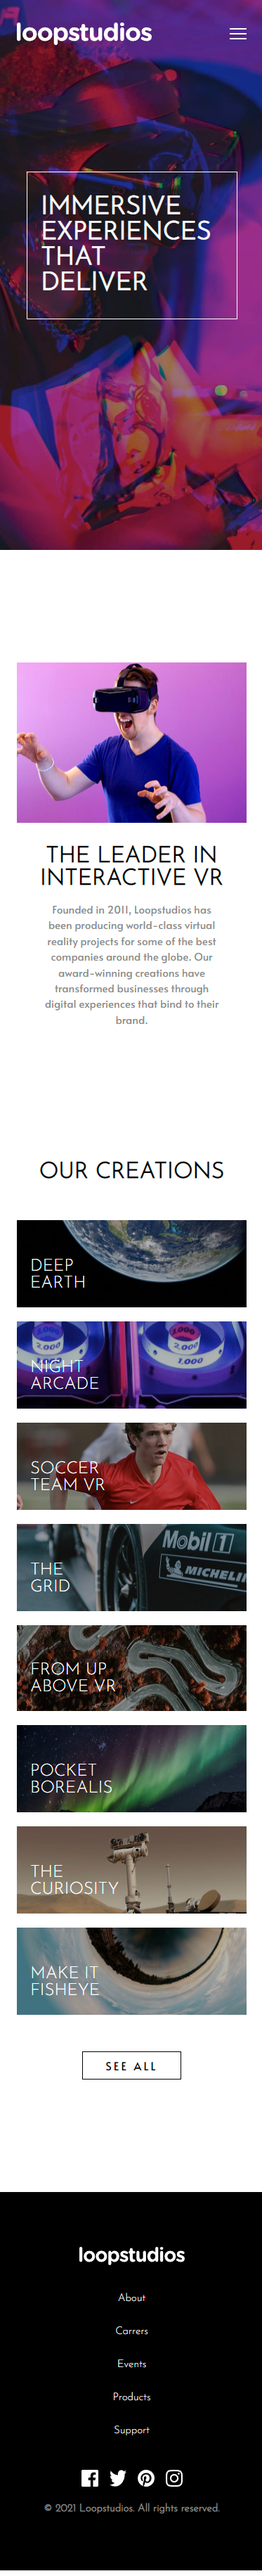
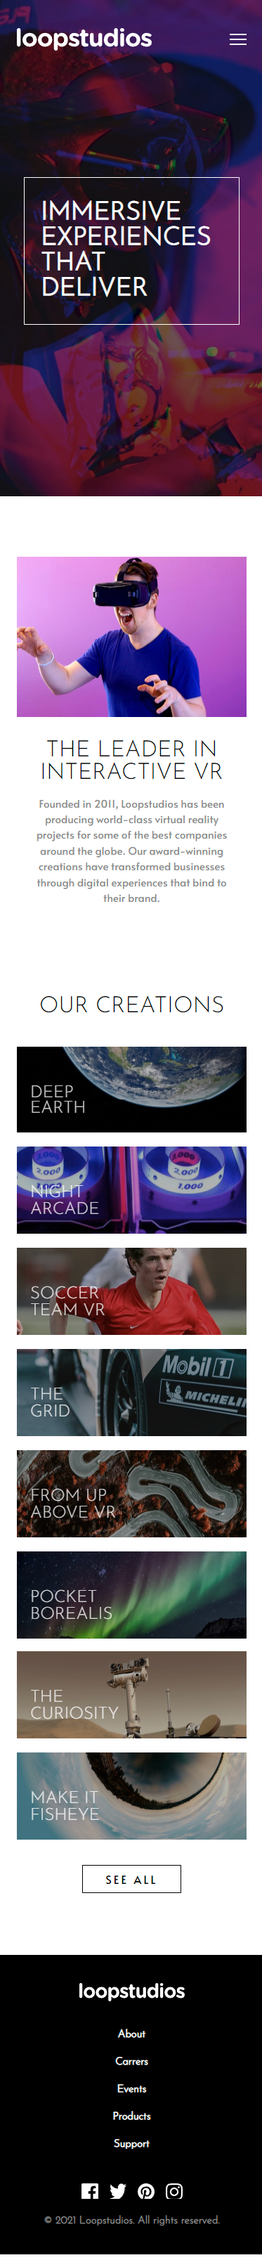
mejoras scss

diff --git a/src/App.scss b/src/App.scss
@@ -12,7 +12,12 @@
   .hero {
     grid-area: hero;
     height: 90vh;
-    background-image: url(./assets/images/mobile/image-hero.jpg);
+    background-image: linear-gradient(
+        to right,
+        rgba(0, 0, 0, 0.3),
+        rgba(0, 0, 0, 0.3)
+      ),
+      url(./assets/images/mobile/image-hero.jpg);
     background-repeat: no-repeat;
     background-size: cover;
     background-position: center;
@@ -87,6 +92,7 @@
     }
 
     .title {
+      width: 94%;
       border: 1px solid var(--white);
       padding: 2rem 3rem 2rem 2rem;
       color: var(--white);
@@ -95,6 +101,7 @@
       display: flex;
       justify-content: center;
       align-items: center;
+      margin: 0 auto;
     }
   }
 
@@ -269,7 +276,13 @@
 @media (min-width: 1440px) {
   .grid {
     .hero {
-      background-image: url(./assets/images/desktop/image-hero.jpg);
+      height: 86vh;
+      background-image: linear-gradient(
+          to right,
+          rgba(0, 0, 0, 0.4),
+          rgba(0, 0, 0, 0.4)
+        ),
+        url(./assets/images/desktop/image-hero.jpg);
       gap: 10rem;
 
       .title {
@@ -277,7 +290,7 @@
         width: 540px;
         margin: 0;
 
-        h1{
+        h1 {
           font-weight: 300;
         }
       }

diff --git a/README.md b/README.md
@@ -31,7 +31,7 @@ Users should be able to:
 ### Links
 
 - Solution URL: (https://github.com/eduviana/loopstudios-landing-page-main)
-- Live Site URL: (https://loopstudios-landing-page-main-dfo1b44t0-eduviana.vercel.app/)
+- Live Site URL: (https://loopstudios-landing-page-main-ly8aapvhr-eduviana.vercel.app/)
 
 ## My process
 
